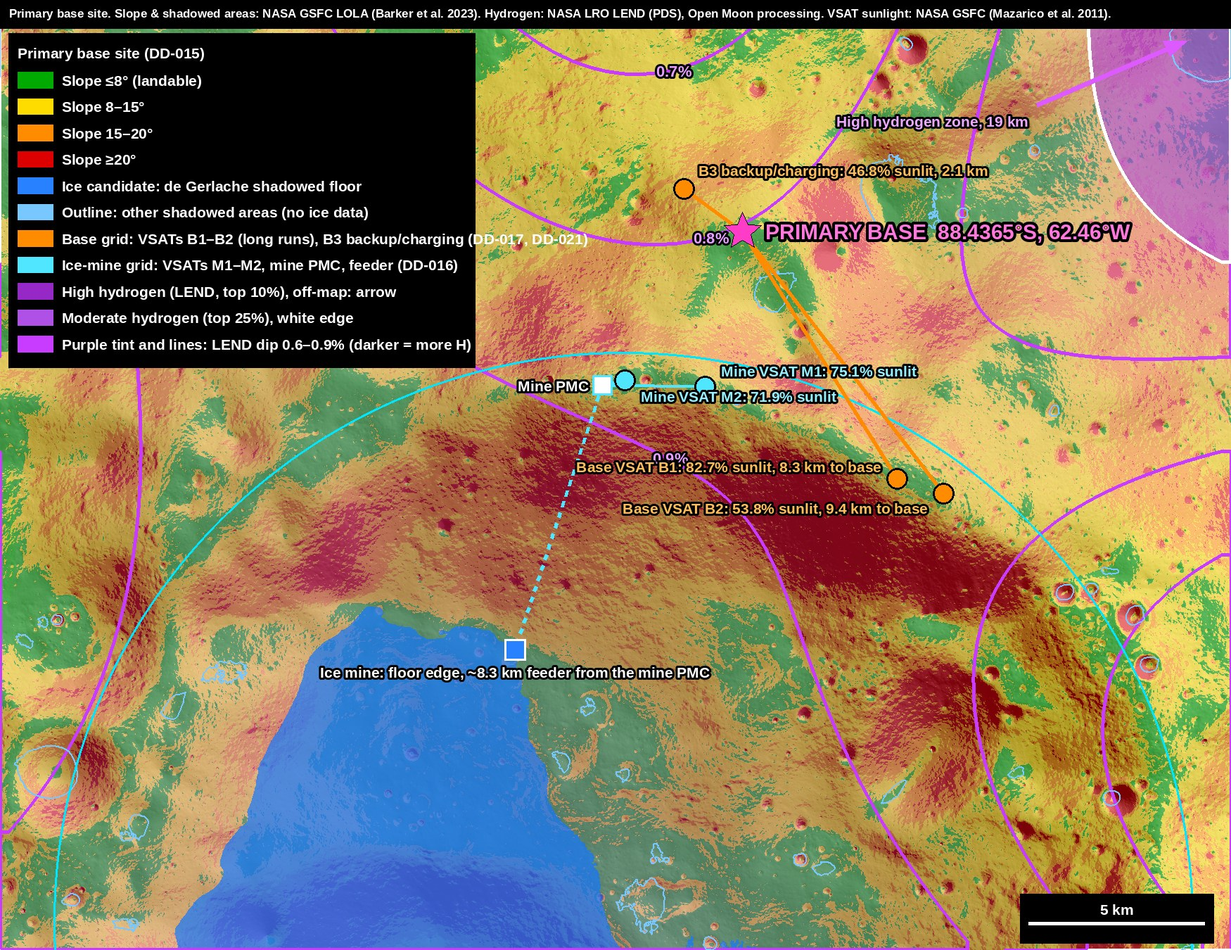
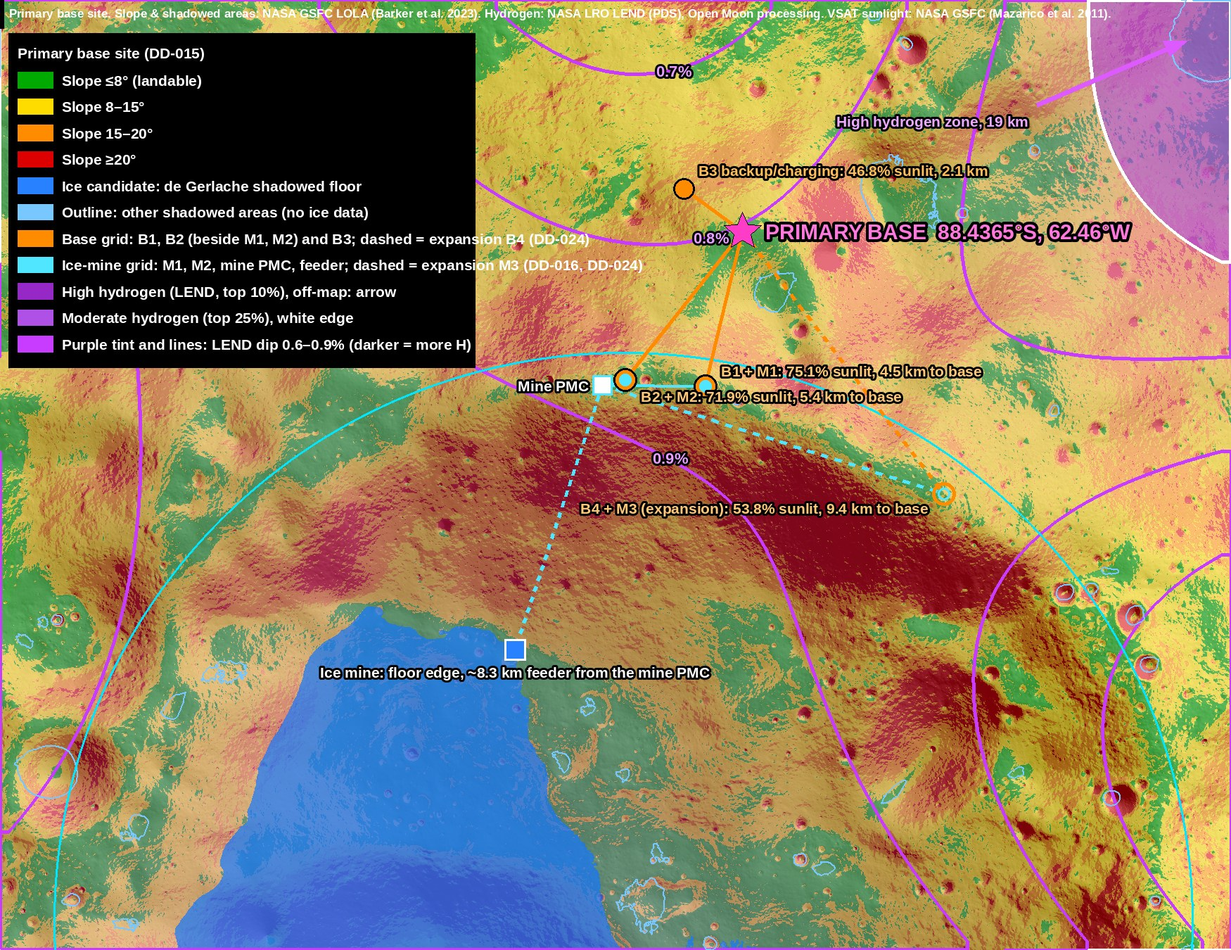
Base towers B1/B2 beside mine towers M1/M2; B4 and M3 at the far rim as first expansion (DD-024)
Claude-Session: https://claude.ai/code/session_01EMgvSv8Ki6A9jj7v8eiV3S

diff --git a/analysis/hydrogen/mk_primary.py b/analysis/hydrogen/mk_primary.py
@@ -81,31 +81,30 @@ x, y = m2p(*lonlat2m(-88.5352, -97.4007))
 if 0 <= x < W and 0 <= y < H:
     r = 9 * k; dr.ellipse((x - r, y - r, x + r, y + r), fill='white', outline=(20, 120, 255), width=3)
 # DD-016: mine grid (rim VSATs + mine PMC) and base grid (own VSATs)
-MV = [(-88.4657, -67.872, 75.1), (-88.3937, -68.686, 71.9)]
-BV = [(-88.6652, -68.42, 82.7), (-88.7108, -68.28, 53.8), (-88.3693, -62.11, 46.8)]
+# DD-024: base towers B1/B2 stand beside mine towers M1/M2; B3 near the base; B4 + M3 are the first expansion towers (old B2 spot)
+PAIRS = [('B1 + M1', -88.4657, -67.872, 75.1), ('B2 + M2', -88.3937, -68.686, 71.9)]
+B3 = (-88.3693, -62.11, 46.8); EXP = ('B4 + M3 (expansion)', -88.7108, -68.28, 53.8)
 bx, by = m2p(*base); mx, my = m2p(*mine)
-mp = m2p(*lonlat2m(-88.3937, -68.686)); mp = (mp[0] - 26 * k, mp[1] + 6 * k)   # mine PMC beside VSAT M2
-# base grid lines
-for la, lo, p_ in BV:
-    x, y = m2p(*lonlat2m(la, lo)); dr.line([(bx, by), (x, y)], fill=(255, 140, 0), width=int(4 * k))
-# mine grid lines
-for la, lo, p_ in MV:
-    x, y = m2p(*lonlat2m(la, lo)); dr.line([mp, (x, y)], fill=(80, 230, 255), width=int(4 * k))
-for q in range(0, 100, 4):
-    t0, t1 = q / 100, min(1, (q + 2) / 100)
-    dr.line([(mp[0] + (mx - mp[0]) * t0, mp[1] + (my - mp[1]) * t0), (mp[0] + (mx - mp[0]) * t1, mp[1] + (my - mp[1]) * t1)], fill=(80, 230, 255), width=int(4 * k))
-for n, (la, lo, p_) in enumerate(BV, 1):
-    x, y = m2p(*lonlat2m(la, lo)); r = 12 * k
-    dr.ellipse((x - r, y - r, x + r, y + r), fill=(255, 140, 0), outline='black', width=3)
-    dkm = math.hypot(*(np.array(lonlat2m(la, lo)) - np.array(base))) / 1000
-    if n < 3:
-        dr.text((x - 18 * k, y + (-14 if n == 1 else 16) * k), 'Base VSAT B%d: %.1f%% sunlit, %.1f km to base' % (n, p_, dkm), font=Fs, fill=(255, 190, 90), anchor='rm', stroke_width=3, stroke_fill=(0, 0, 0))
-    else:
-        dr.text((x + 16 * k, y - 12 * k), 'B3 backup/charging: %.1f%% sunlit, %.1f km' % (p_, dkm), font=Fs, fill=(255, 190, 90), anchor='lb', stroke_width=3, stroke_fill=(0, 0, 0))
-for n, (la, lo, p_) in enumerate(MV, 1):
-    x, y = m2p(*lonlat2m(la, lo)); r = 12 * k
-    dr.ellipse((x - r, y - r, x + r, y + r), fill=(80, 230, 255), outline='black', width=3)
-    dr.text((x + 18 * k, y + (-18 if n == 1 else 18) * k), 'Mine VSAT M%d: %.1f%% sunlit' % (n, p_), font=Fs, fill=(150, 240, 255), anchor='lm', stroke_width=3, stroke_fill=(0, 0, 0))
+mp = m2p(*lonlat2m(-88.3937, -68.686)); mp = (mp[0] - 26 * k, mp[1] + 6 * k)   # mine PMC beside M2
+def dashed(p0, p1, col, w):
+    for q in range(0, 100, 4):
+        t0, t1 = q / 100, min(1, (q + 2) / 100)
+        dr.line([(p0[0] + (p1[0] - p0[0]) * t0, p0[1] + (p1[1] - p0[1]) * t0), (p0[0] + (p1[0] - p0[0]) * t1, p0[1] + (p1[1] - p0[1]) * t1)], fill=col, width=w)
+OR, CY = (255, 140, 0), (80, 230, 255); W = int(4 * k)
+for _, la, lo, p_ in PAIRS + [(None,) + B3]:
+    x, y = m2p(*lonlat2m(la, lo)); dr.line([(bx, by), (x, y)], fill=OR, width=W)
+for _, la, lo, p_ in PAIRS:
+    x, y = m2p(*lonlat2m(la, lo)); dr.line([mp, (x, y)], fill=CY, width=W)
+ex = m2p(*lonlat2m(EXP[1], EXP[2])); dashed((bx, by), ex, OR, W); dashed(mp, ex, CY, W); dashed(mp, (mx, my), CY, W)
+dkm = lambda la, lo: math.hypot(*(np.array(lonlat2m(la, lo)) - np.array(base))) / 1000
+for n, (lab, la, lo, p_) in enumerate(PAIRS):
+    x, y = m2p(*lonlat2m(la, lo)); r = 13 * k
+    dr.ellipse((x - r, y - r, x + r, y + r), fill=OR, outline='black', width=3); r2 = 7 * k; dr.ellipse((x - r2, y - r2, x + r2, y + r2), fill=CY)
+    dr.text((x + 18 * k, y + (-18 if n == 0 else 18) * k), '%s: %.1f%% sunlit, %.1f km to base' % (lab, p_, dkm(la, lo)), font=Fs, fill=(255, 200, 120), anchor='lm', stroke_width=3, stroke_fill=(0, 0, 0))
+x, y = m2p(*lonlat2m(B3[0], B3[1])); r = 12 * k; dr.ellipse((x - r, y - r, x + r, y + r), fill=OR, outline='black', width=3)
+dr.text((x + 16 * k, y - 12 * k), 'B3 backup/charging: %.1f%% sunlit, %.1f km' % (B3[2], dkm(B3[0], B3[1])), font=Fs, fill=(255, 190, 90), anchor='lb', stroke_width=3, stroke_fill=(0, 0, 0))
+x, y = ex; r = 13 * k; dr.ellipse((x - r, y - r, x + r, y + r), outline=OR, width=int(4 * k)); r2 = 7 * k; dr.ellipse((x - r2, y - r2, x + r2, y + r2), outline=CY, width=int(3 * k))
+dr.text((x - 18 * k, y + 16 * k), '%s: %.1f%% sunlit, %.1f km to base' % (EXP[0], EXP[3], dkm(EXP[1], EXP[2])), font=Fs, fill=(255, 200, 120), anchor='rm', stroke_width=3, stroke_fill=(0, 0, 0))
 r = 11 * k; dr.rectangle((mp[0] - r, mp[1] - r, mp[0] + r, mp[1] + r), fill='white', outline=(80, 230, 255), width=3)
 dr.text((mp[0] - 16 * k, mp[1]), 'Mine PMC', font=Fs, fill='white', anchor='rm', stroke_width=3, stroke_fill=(0, 0, 0))
 r = 12 * k; dr.rectangle((mx - r, my - r, mx + r, my + r), fill=(40, 130, 255), outline='white', width=3)
@@ -118,7 +117,7 @@ dr.text((bx + 26 * k, by), 'PRIMARY BASE  88.4365°S, 62.46°W', font=F, fill=(2
 # legend
 rows = [((0, 170, 0), 'Slope ≤8° (landable)'), ((255, 220, 0), 'Slope 8–15°'), ((255, 140, 0), 'Slope 15–20°'), ((220, 0, 0), 'Slope ≥20°'),
         ((40, 130, 255), 'Ice candidate: de Gerlache shadowed floor'), ((120, 200, 255), 'Outline: other shadowed areas (no ice data)'),
-        ((255, 140, 0), 'Base grid: VSATs B1–B2 (long runs), B3 backup/charging (DD-017, DD-021)'), ((80, 230, 255), 'Ice-mine grid: VSATs M1–M2, mine PMC, feeder (DD-016)'),
+        ((255, 140, 0), 'Base grid: B1, B2 (beside M1, M2) and B3; dashed = expansion B4 (DD-024)'), ((80, 230, 255), 'Ice-mine grid: M1, M2, mine PMC, feeder; dashed = expansion M3 (DD-016, DD-024)'),
         ((150, 40, 200), 'High hydrogen (LEND, top 10%), off-map: arrow'), ((175, 80, 230), 'Moderate hydrogen (top 25%), white edge'), ((200, 60, 255), 'Purple tint and lines: LEND dip 0.6–0.9% (darker = more H)')]
 lx, ly = int(20 * k), int(48 * k)
 dr.rectangle((lx - 10 * k, ly - 10 * k, lx + 520 * k, ly + (len(rows) * 30 + 40) * k), fill=(0, 0, 0))

diff --git a/analysis/blender/base_anim.py b/analysis/blender/base_anim.py
@@ -37,8 +37,9 @@ lab, _ = ndimage.label(sl <= 8); patch = lab == lab[sl.shape[0] // 2, sl.shape[1
 pe = np.array(Image.fromarray((patch * 255).astype('uint8')).resize((OUTPX, OUTPX), Image.NEAREST)) > 0
 edge = pe & ~ndimage.binary_erosion(pe, iterations=2)
 m2p = lambda x, y: ((x - (C[0] - HALF)) * k, ((C[1] + HALF) - y) * k)
-PTS = [('B1', (-88.6652, -68.42), (255, 140, 0)), ('B2', (-88.7108, -68.28), (255, 140, 0)), ('B3', (-88.3693, -62.11), (255, 140, 0)),
-       ('M1', (-88.4657, -67.872), (0, 220, 255)), ('M2', (-88.3937, -68.686), (0, 220, 255))]
+# DD-024: base towers B1/B2 stand beside mine towers M1/M2; B4 + M3 are the first expansion towers (old B2 spot)
+PTS = [('B1+M1', (-88.4657, -67.872), (255, 140, 0)), ('B2+M2', (-88.3937, -68.686), (255, 140, 0)), ('B3', (-88.3693, -62.11), (255, 140, 0)),
+       ('B4+M3 (expansion)', (-88.7108, -68.28), (0, 220, 255))]
 cols = []
 for t in np.linspace(0, 1, 12):
     for g in np.linspace(0, 255, 18):
@@ -73,7 +74,7 @@ for kf in range(suns.shape[1]):
     dr.rectangle((0, 0, OUTPX, 24), fill='black')
     dr.text((8, 5), '%s season · day %4.1f of the lunar day · base %s' % ('Best' if SEASON == 'summer' else 'Worst', kf * 0.5, 'lit' if lit[H // 2, W // 2] > 0.5 else 'in shadow'), font=F(14), fill='white')
     dr.rectangle((0, OUTPX - 22, OUTPX, OUTPX), fill='black')
-    dr.text((8, OUTPX - 17), 'ESTIMATE · 20 × 20 km · green: flat patch · star: base · orange: base towers · cyan: mine towers · LOLA terrain, DE421 Sun', font=F(11), fill=(220, 220, 220))
+    dr.text((8, OUTPX - 17), 'ESTIMATE · 20 × 20 km · green: flat patch · star: base · orange: initial towers · cyan: expansion towers · LOLA terrain, DE421 Sun', font=F(11), fill=(220, 220, 220))
     frames.append(im.quantize(palette=PAL, dither=Image.Dither.NONE)); print(kf, flush=True)
 frames[0].save(OUT, save_all=True, append_images=frames[1:], duration=200, loop=0, optimize=True)
 print('base lit in %d of %d frames' % (sum(v > 0.5 for v in litbase), len(litbase)))

diff --git a/analysis/blender/make_texture.py b/analysis/blender/make_texture.py
@@ -19,8 +19,8 @@ if not os.environ.get('SITE_ONLY'):
 C = lonlat2m(-88.4365, -62.46); HALF = (B[2] - B[0]) / 2; F = lambda z: ImageFont.truetype(FB, int(z))
 def markers(img, px_per_m, x0, y1, star=True):
     dr = ImageDraw.Draw(img); k = img.width / 1600
-    P = [('B1', (-88.6652, -68.42), (255, 140, 0)), ('B2', (-88.7108, -68.28), (255, 140, 0)), ('B3', (-88.3693, -62.11), (255, 140, 0)),
-         ('M1', (-88.4657, -67.872), (0, 220, 255)), ('M2', (-88.3937, -68.686), (0, 220, 255))]
+    P = [('B1+M1', (-88.4657, -67.872), (255, 140, 0)), ('B2+M2', (-88.3937, -68.686), (255, 140, 0)), ('B3', (-88.3693, -62.11), (255, 140, 0)),
+         ('B4+M3 (expansion)', (-88.7108, -68.28), (0, 220, 255))]   # DD-024
     for n, (la, lo_), col in P:
         x, y = lonlat2m(la, lo_); X = (x - x0) * px_per_m; Y = (y1 - y) * px_per_m
         if 0 <= X < img.width and 0 <= Y < img.height:

diff --git a/_milestones/m00-site-selection.md b/_milestones/m00-site-selection.md
@@ -162,9 +162,10 @@ NASA's VSAT towers give 10 kW each on 5–10 m masts and stand on slopes up to 1
 | Site | Lit | Longest dark |
 |---|---|---|
 | Backup: ridge, 3 towers | 93.0% | 4.8 days |
-| Primary: rim, 2 towers | 84.1% | 6.2 days |
+| Primary: rim, first 3 towers | 77.4% | 14.0 days |
+| Primary, with expansion tower B4 | 84.6% | 6.0 days |
 
-The ridge towers sit on ~2 km cables. The primary's towers need 8.3–9.4 km cables.
+The ridge towers sit on ~2 km cables. The primary's first towers sit on 2.1–5.4 km cables; B4 needs 9.4 km.
 
 </div>
 <div class="tp-media" markdown="1">
@@ -227,14 +228,17 @@ Top: ice candidates in the focus area. Bottom: surface ice found by NASA's M3, s
 
 ### Power layout at the primary
 
-The ice floor is 13.4 km from the base, beyond the 10 km cable limit, so the base and the mine have **separate grids** (DD-016; ESTIMATE):
+The ice floor is 13.4 km from the base, beyond the 10 km cable limit, so the base and the mine have **separate grids** (DD-016). Base towers B1 and B2 stand beside mine towers M1 and M2 on the rim, 4.5 and 5.4 km from the base. B4 and M3 are the first expansion towers (DD-024; ESTIMATE):
 
 | Grid | Lit | Longest dark |
 |---|---|---|
-| Base: B1, B2 (+B3) | 84.1% (84.2% with B3) | 6.2 days |
-| Mine: M1, M2 | 77.4% | 14.2 days |
+| Base, first: B1, B2, B3 | 77.4% | 14.0 days |
+| Base, with B4 | 84.6% | 6.0 days |
+| Mine, first: M1, M2 | 77.4% | 14.2 days |
+| Mine, with M3 | 84.5% | 6.0 days |
 
-- **B3**, 2.1 km from the base and clear of the flat patch, adds redundancy and faster charging (DD-017, DD-021).
+- **B3**, 2.1 km from the base and clear of the flat patch, adds redundancy and faster charging (DD-017, DD-021). It is almost never lit when B1 and B2 are dark (about 2 hours a year), so it does not shorten their dark spells.
+- **B4 and M3** stand together at the far rim, 9.4 km from the base and 9.6 km from the mine PMC. They are lit when the near rim is dark, which cuts the longest dark spell from about 14 days to 6.
 - **The mine stops in the dark.** Its battery only keeps systems alive.
 - **Towers within 3 km were rejected.** They reach only 56.9%.
 
@@ -262,7 +266,7 @@ window.addEventListener('hashchange',open);open();})();
 | Position | 88.4365°S, 62.46°W | 89.559°S, 163.66°W |
 | Slope at site; landable within 1 km | 2.2°; 58% | 6.1°; 69% |
 | Connected flat ground (≤8°); widest flat circle | 4.8 km²; 540 m | 9.7 km²; 450 m |
-| Solar towers (ESTIMATE) | 84.1% lit, longest dark 6.2 days | 93.0% lit, longest dark 4.8 days |
+| Solar towers (ESTIMATE) | 77.4% lit, longest dark 14.0 days (84.6% and 6.0 days with expansion tower B4) | 93.0% lit, longest dark 4.8 days |
 | Nearest ice-candidate floor | 13.4 km (de Gerlache) | 5.2 km (Shackleton) |
 | Nearest high hydrogen | 19.5 km | 28.9 km |
 | On NASA's 2024 list | Yes (de Gerlache Rim 2) | No (2022 list only) |
@@ -280,7 +284,7 @@ window.addEventListener('hashchange',open);open();})();
 
 **Cons**
 
-- Less sun: 84.1% with blackouts of up to 6.2 days, and the base towers need 8.3–9.4 km cables.
+- Less sun: the first towers are lit 77.4% of the time, with dark spells of up to 14 days, until expansion tower B4 (9.4 km cable) brings this to 84.6% and 6 days.
 - The ice floor is 13.4 km away, so the mine needs its own grid and stops for up to about 14 days at a time.
 - The cables to the mine cross a crater wall that is mostly steeper than 20°.
 - A young fault scarp is mapped in Rim 2<sup class="r">[7](#s7)</sup>.

diff --git a/_components/c06-2-ice-mining.md b/_components/c06-2-ice-mining.md
@@ -86,7 +86,7 @@ This plan follows the architecture of a NASA case study. Excavators work in the 
 
 **Power at the mine (design changes DD-013 and DD-014).** The base's standard power run is 3 km of cable (DD-013). Extended runs of up to 10 km are allowed at about 10–15% loss (DD-014). In the NASA study the mine is about 5 km from the ridge<sup class="r">[1](#s1)</sup>, and NASA expects ISRU to need power over 3–5 km<sup class="r">[6](#s6)</sup>. So the ~15 kW at such a mine can come from the grid over an extended run, with voltage regulation at the mine end and a 1 kHz stability analysis for the run (plan design). At ~10–15% loss, that is about 1.5–2.3 kW more at the source (this plan's arithmetic). A mine more than 10 km of cable from the PMC runs on the mobile power cart (PBS PW.5) or a local source, and tankers carry the water to the plant (plan design; open).
 
-**Primary base site (DD-015).** At the primary site on de Gerlache's north rim, the mine is planned at the edge of de Gerlache's shadowed floor around 88.37°S, 78.3°W, about 13.5 km from the base (DD-023). It is powered by its own isolated grid (DD-016): two rim VSATs 2.3 km apart feeding a mine PMC on the rim, and an ~8.3 km feeder down to the mine (M00, "Power layout" tab). It is not connected to the base grid (plan design; ESTIMATE for sunlight). When both mine VSATs are dark (up to about 14 days at a time, ESTIMATE), the mine shuts down; its battery only keeps heaters, controls and comms alive, not the ~15 kW mining load (plan design).
+**Primary base site (DD-015).** At the primary site on de Gerlache's north rim, the mine is planned at the edge of de Gerlache's shadowed floor around 88.37°S, 78.3°W, about 13.5 km from the base (DD-023). It is powered by its own isolated grid (DD-016): two rim VSATs 2.3 km apart feeding a mine PMC on the rim, and an ~8.3 km feeder down to the mine (M00, "Power layout" tab). It is not connected to the base grid (plan design; ESTIMATE for sunlight). A third mine tower, M3, at the far rim 9.6 km from the mine PMC, is the first expansion and cuts the longest dark spell from about 14 days to 6 (DD-024; ESTIMATE). When both mine VSATs are dark (up to about 14 days at a time, ESTIMATE), the mine shuts down; its battery only keeps heaters, controls and comms alive, not the ~15 kW mining load (plan design).
 
 ## Sizing
 

diff --git a/_archive/milestones/m04-power.md b/_archive/milestones/m04-power.md
@@ -222,7 +222,7 @@ This is the plan's design, simplified to one line per 3-phase circuit. Each sour
 
 The base runs one grid (DD-009). A remote site too far from the base for a power run can have its own isolated grid: its own generation, PMC and storage, with no tie to the base (plan design). The first case is the ice mine at the primary site, 13.5 km from the base: two 10 kW VSATs on the de Gerlache rim feed a mine PMC there, with a feeder down to the mine (M00). The base keeps its own VSATs. Each isolated grid needs its own storage and spares. The ice-mine grid stores only enough to keep its systems minimally alive while it is dark; mining stops until the VSATs are lit again (plan design). Its keep-alive load is not yet sized (open).
 
-**Base VSATs at the primary site (DD-016, DD-017).** B1 (site 5, 8.3 km) and B2 (9.4 km) on extended runs (DD-023) give the base its hours of sunlight; B3, 2.1 km from the base on a standard run and clear of the flat patch (DD-021), adds redundancy and faster battery charging while the Sun is up (plan design; see M00).
+**Base VSATs at the primary site (DD-016, DD-017).** B1 and B2 stand beside mine towers M1 and M2, 4.5 and 5.4 km from the base, and B4 at the far rim (9.4 km) is the first expansion tower (DD-024); B3, 2.1 km from the base on a standard run and clear of the flat patch (DD-021), adds redundancy and faster battery charging while the Sun is up (plan design; see M00).
 
 ## Power runs: 3 km standard, up to 10 km extended, converted to 3 kV AC at the source
 
